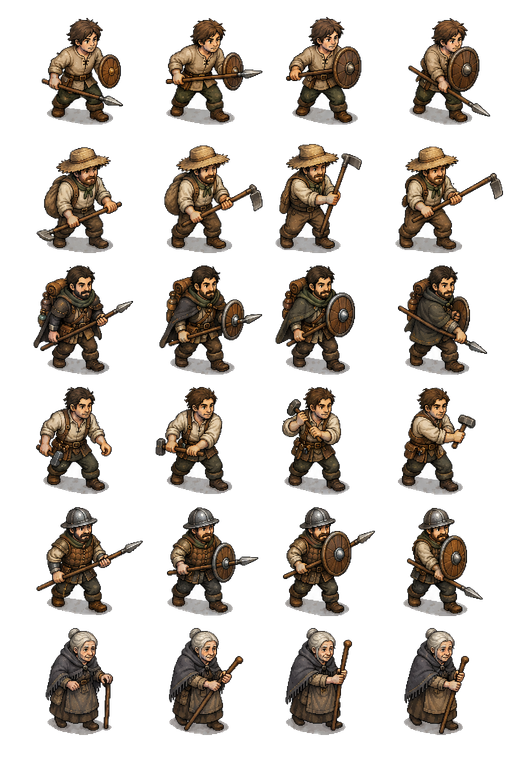
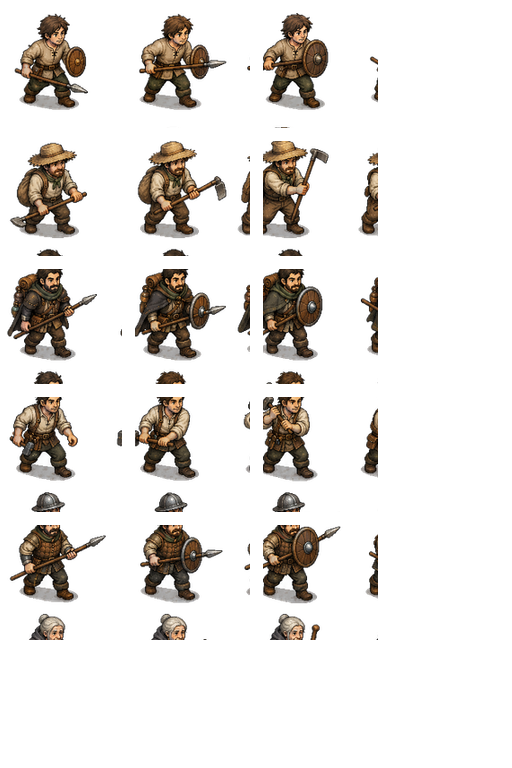
Ground citizens: re-bottom grid cells, tighten contact shadow
gpt-5.5 confirmed the floating look is a processing/render issue: the batch-15
grid cells had transparent padding below the feet (measured up to 34px on the
elder row), so the bottom-anchored sprite hovered above its shadow.

Pipeline groundCitizenSheet() now trims every cell to its figure, scales it to
a uniform height and bottom-aligns it so the feet sit at the cell bottom — a
bottom-anchored sprite is grounded and every role renders the same body height.
Shadow tightened (2.6x0.9, alpha 0.4, at a.y+0.12) so it reads as a contact
mark, not a detached oval.

Cosmetic only. Verify: typecheck, 64/64, lint, battery QA green, 13x close-up
shows citizens planted with feet on the ground.

diff --git a/src/render/citizenLayer.ts b/src/render/citizenLayer.ts
@@ -98,9 +98,9 @@ export class CitizenLayer {
       const sh = new Sprite(this.tex.glow);
       sh.anchor.set(0.5);
       sh.tint = 0x000000;
-      sh.alpha = 0.55;
-      sh.width = 3.2;
-      sh.height = 1.5;
+      sh.alpha = 0.4;
+      sh.width = 2.6;
+      sh.height = 0.9;
       this.shadowLayer.addChild(sh);
       this.shadows.push(sh);
       const ibg = new Sprite(this.tex.glow);
@@ -155,7 +155,7 @@ export class CitizenLayer {
       const a = agents[i];
       sp.visible = true;
       sh.visible = true;
-      sh.position.set(a.x, a.y + 0.35);
+      sh.position.set(a.x, a.y + 0.12);
       sp.tint = state.civs[a.civId]?.color ?? 0xffffff;
 
       // Routine field/forest labor (the bulk of citizens) shows as body
